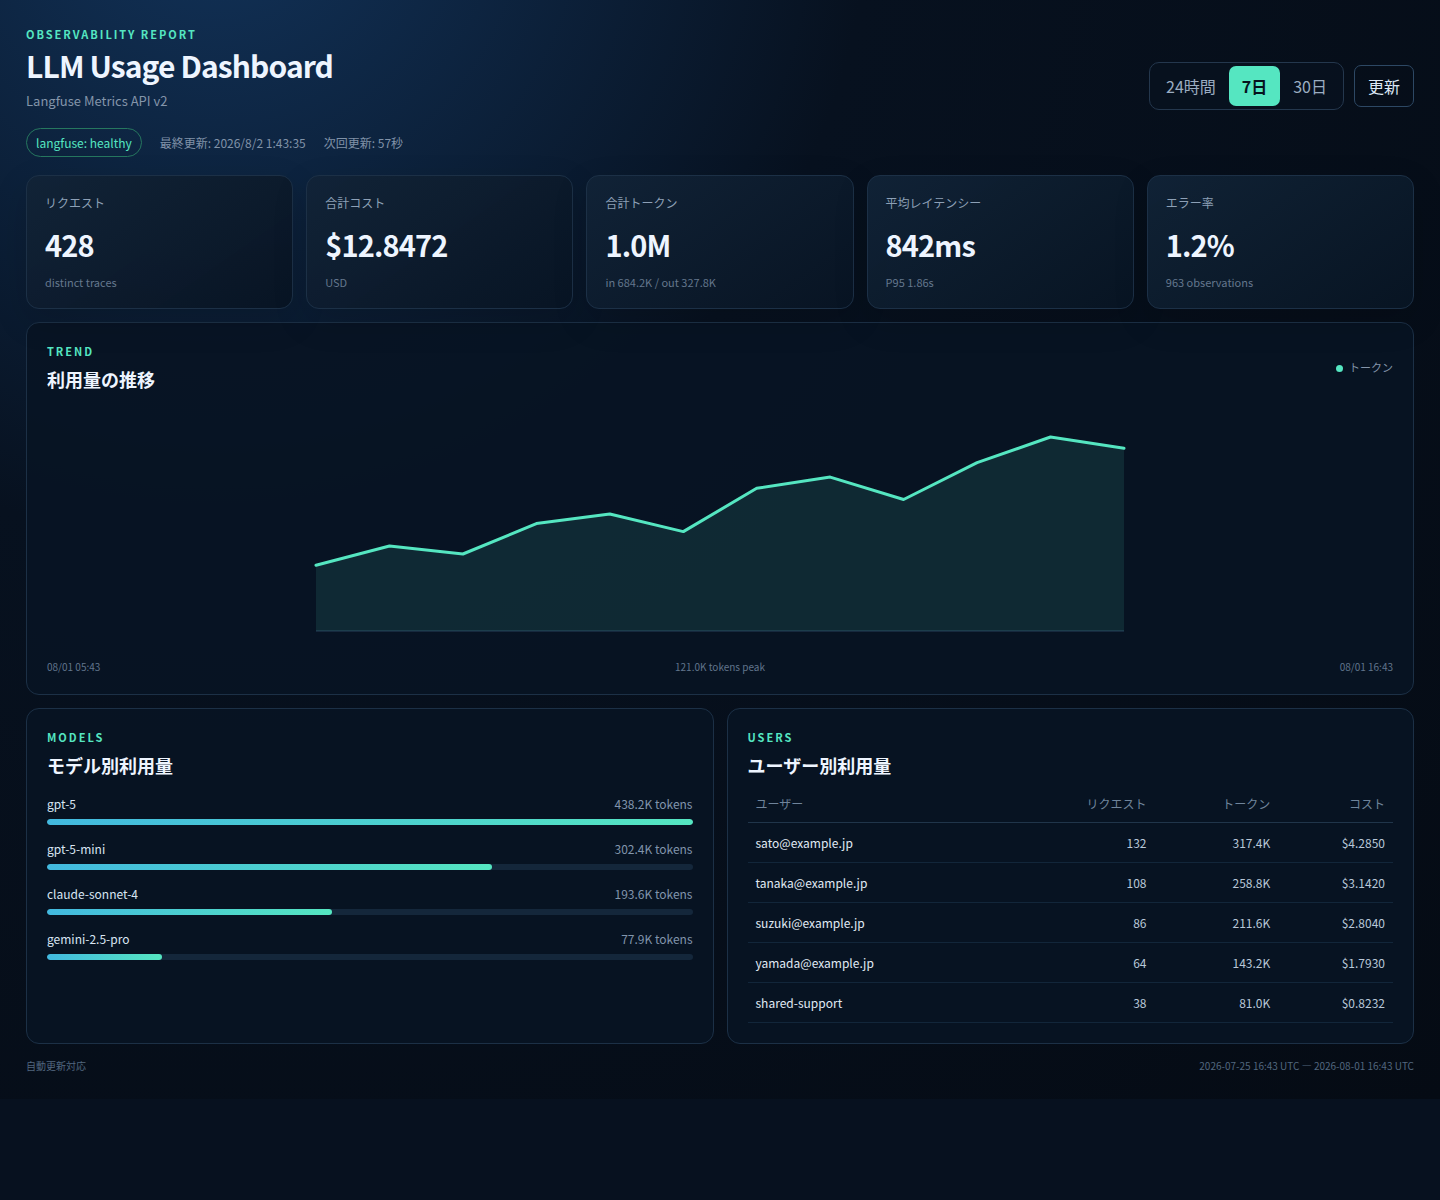
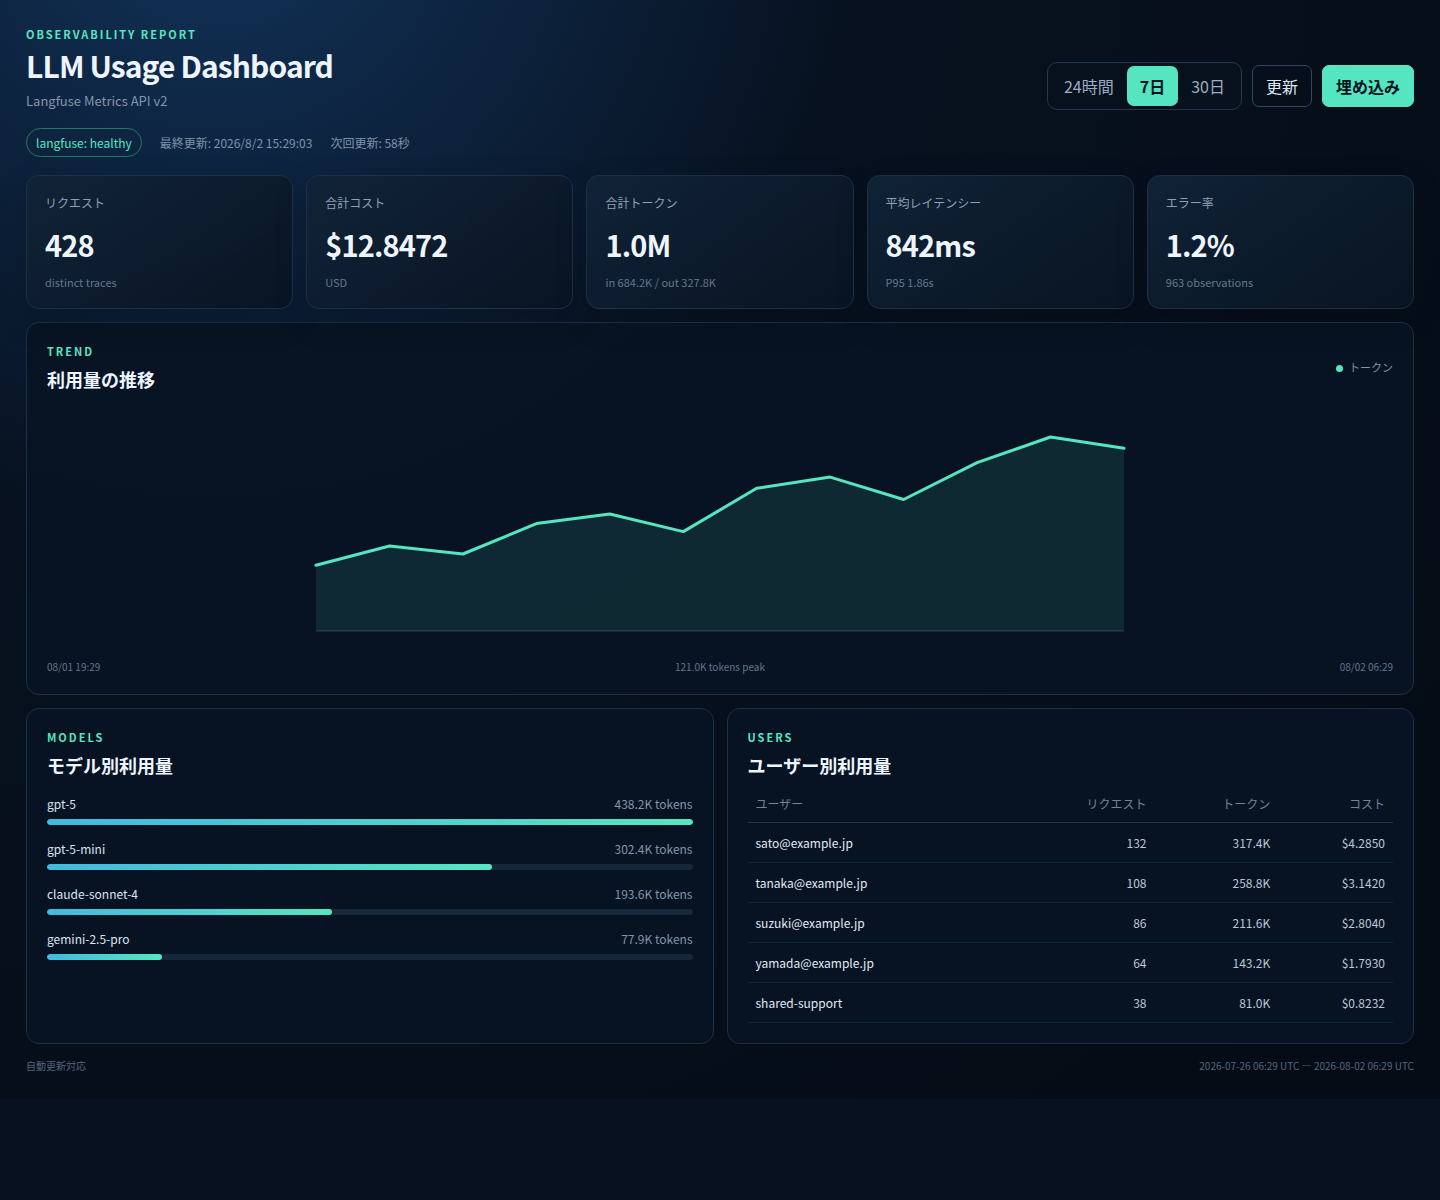
Add iframe embed code generator

Changed region(s): [[0.7188, 0.0308, 1.0, 0.0925], [0.1875, 0.0925, 0.2812, 0.1233]]

diff --git a/static/styles.css b/static/styles.css
@@ -6,7 +6,7 @@
 }
 * { box-sizing: border-box; }
 body { margin: 0; min-width: 320px; background: radial-gradient(circle at 15% -10%, #12335a 0, #07111f 38%, #050b14 100%); }
-button { font: inherit; }
+button, input, textarea { font: inherit; }
 .shell { max-width: 1440px; margin: 0 auto; padding: 26px; }
 .topbar { display: flex; align-items: flex-end; justify-content: space-between; gap: 24px; margin-bottom: 18px; }
 .eyebrow, .panel-kicker { color: #55e6c1; font-size: 11px; font-weight: 700; letter-spacing: .18em; margin: 0 0 7px; }
@@ -15,11 +15,13 @@ h2 { font-size: 18px; margin: 0; }
 .subtitle { color: #8495aa; margin: 8px 0 0; font-size: 13px; }
 .toolbar { display: flex; gap: 10px; align-items: center; }
 .range-buttons { display: flex; border: 1px solid #24374d; border-radius: 10px; padding: 3px; background: rgba(7,17,31,.8); }
-.range-buttons button, .refresh-button { border: 0; color: #9badc2; background: transparent; padding: 8px 13px; cursor: pointer; border-radius: 7px; }
+.range-buttons button, .refresh-button, .embed-button { border: 0; color: #9badc2; background: transparent; padding: 8px 13px; cursor: pointer; border-radius: 7px; }
 .range-buttons button.active { color: #06131e; background: #55e6c1; font-weight: 700; }
 .refresh-button { border: 1px solid #2d4864; color: #dce8f6; }
 .refresh-button:hover { border-color: #55e6c1; }
 .refresh-button:disabled { opacity: .45; cursor: wait; }
+.embed-button, .primary-button { color: #06131e; background: #55e6c1; border: 1px solid #55e6c1; font-weight: 700; }
+.embed-button:hover, .primary-button:hover { background: #7aefd1; }
 .status-row { color: #8092a8; display: flex; gap: 18px; align-items: center; font-size: 12px; margin-bottom: 18px; }
 .status-pill { border: 1px solid #36506a; padding: 5px 9px; border-radius: 999px; }
 .status-healthy { border-color: #26775f; color: #55e6c1; }
@@ -57,13 +59,38 @@ td { color: #b8c7d8; text-align: right; padding: 11px 8px; border-bottom: 1px so
 .user-id { max-width: 260px; overflow: hidden; text-overflow: ellipsis; white-space: nowrap; color: #e0eaf5; }
 .empty { color: #73879e; text-align: center; padding: 35px 10px; }
 footer { display: flex; justify-content: space-between; gap: 20px; color: #52677f; font-size: 10px; margin-top: 14px; }
+.modal-open { overflow: hidden; }
+.modal { position: fixed; z-index: 1000; inset: 0; display: flex; align-items: center; justify-content: center; padding: 20px; }
+.modal.hidden { display: none; }
+.modal-backdrop { position: absolute; inset: 0; background: rgba(1,8,16,.78); }
+.modal-card { position: relative; width: 100%; max-width: 690px; padding: 24px; border: 1px solid #29445f; border-radius: 15px; background: #091829; box-shadow: 0 24px 80px rgba(0,0,0,.55); }
+.modal-heading { display: flex; align-items: flex-start; justify-content: space-between; gap: 18px; }
+.icon-button { border: 0; border-radius: 8px; color: #9badc2; background: transparent; cursor: pointer; font-size: 28px; line-height: 1; padding: 2px 7px; }
+.icon-button:hover { color: #fff; background: #14283d; }
+.modal-description { margin: 14px 0; color: #9badc2; font-size: 13px; }
+.publish-note { margin: 0 0 19px; padding: 11px 13px; border: 1px solid #4a4225; border-radius: 9px; background: #28230f; color: #d7c780; font-size: 12px; line-height: 1.55; }
+.field-label { display: block; margin: 16px 0 7px; color: #c5d2e1; font-size: 12px; font-weight: 600; }
+.copy-row { display: flex; gap: 8px; }
+.code-field { width: 100%; border: 1px solid #294159; border-radius: 8px; padding: 10px 12px; background: #06111f; color: #cfe0f2; font-family: Consolas, "Courier New", monospace; font-size: 12px; outline: none; }
+.code-field:focus { border-color: #55e6c1; }
+.code-area { display: block; resize: vertical; line-height: 1.5; }
+.secondary-button, .primary-button { display: inline-block; border-radius: 8px; padding: 9px 13px; cursor: pointer; white-space: nowrap; text-decoration: none; font-size: 12px; }
+.secondary-button { border: 1px solid #31506d; color: #d9e6f4; background: #0c1d30; }
+.secondary-button:hover { border-color: #55e6c1; }
+.modal-actions { display: flex; justify-content: flex-end; gap: 9px; margin-top: 18px; }
+.link-button { text-align: center; }
+.copy-status { min-height: 17px; margin: 10px 0 0; color: #55e6c1; text-align: right; font-size: 11px; }
 @media (max-width: 820px) {
   .shell { padding: 16px; }
   .topbar { display: block; }
   .toolbar { margin-top: 18px; justify-content: space-between; }
+  .toolbar { flex-wrap: wrap; }
   .two-column { display: block; }
   .two-column > .panel { width: 100%; margin-bottom: 13px; }
   .status-row { flex-wrap: wrap; gap: 8px 14px; }
   footer { display: block; }
   footer span { display: block; margin-top: 5px; }
+  .modal-card { padding: 18px; }
+  .copy-row { align-items: stretch; }
+  .modal-actions { flex-direction: column; }
 }

diff --git a/static/app.js b/static/app.js
@@ -54,6 +54,56 @@
     banner.className = message ? 'error-banner' : 'error-banner hidden';
     banner.textContent = message || '';
   }
+  function currentDashboardUrl() {
+    return window.location.href.split('#')[0].split('?')[0];
+  }
+  function iframeMarkup(url) {
+    return '<iframe\n  src="' + url + '"\n  title="LLM Usage Dashboard"\n  width="100%"\n  height="800"\n  frameborder="0">\n</iframe>';
+  }
+  function copyValue(node, label) {
+    function complete(ok) {
+      byId('copy-status').textContent = ok ? label + 'をコピーしました' : 'コピーできませんでした。選択して手動でコピーしてください。';
+    }
+    if (window.navigator.clipboard && window.navigator.clipboard.writeText) {
+      window.navigator.clipboard.writeText(node.value).then(function () { complete(true); }, function () { fallbackCopy(); });
+      return;
+    }
+    fallbackCopy();
+    function fallbackCopy() {
+      node.focus(); node.select();
+      try { complete(document.execCommand('copy')); } catch (error) { complete(false); }
+    }
+  }
+  function openEmbedModal() {
+    var url = currentDashboardUrl();
+    byId('public-url').value = url;
+    byId('iframe-code').value = iframeMarkup(url);
+    byId('preview-link').href = url;
+    byId('copy-status').textContent = '';
+    byId('embed-modal').className = 'modal';
+    byId('embed-modal').setAttribute('aria-hidden', 'false');
+    document.body.className = 'modal-open';
+    byId('embed-close').focus();
+  }
+  function closeEmbedModal() {
+    byId('embed-modal').className = 'modal hidden';
+    byId('embed-modal').setAttribute('aria-hidden', 'true');
+    document.body.className = '';
+    byId('embed-button').focus();
+  }
+  function initEmbedDialog() {
+    byId('embed-button').onclick = openEmbedModal;
+    byId('embed-close').onclick = closeEmbedModal;
+    byId('copy-url').onclick = function () { copyValue(byId('public-url'), '公開URL'); };
+    byId('copy-iframe').onclick = function () { copyValue(byId('iframe-code'), 'iframeコード'); };
+    byId('embed-modal').onclick = function (event) {
+      if (event.target.getAttribute && event.target.getAttribute('data-close-modal') === 'true') { closeEmbedModal(); }
+    };
+    document.onkeydown = function (event) {
+      event = event || window.event;
+      if ((event.key === 'Escape' || event.keyCode === 27) && byId('embed-modal').className.indexOf('hidden') === -1) { closeEmbedModal(); }
+    };
+  }
   function renderRanges() {
     var holder = byId('range-buttons');
     clear(holder);
@@ -183,6 +233,7 @@
       state.config = config; state.range = config.default_range; state.countdown = config.refresh_seconds;
       document.title = config.title; byId('dashboard-title').textContent = config.title;
       renderRanges(); byId('refresh-button').onclick = loadDashboard;
+      initEmbedDialog();
       loadDashboard(); state.timer = window.setInterval(tick, 1000);
     });
   }

diff --git a/static/index.html b/static/index.html
@@ -18,6 +18,7 @@
       <div class="toolbar">
         <div id="range-buttons" class="range-buttons" aria-label="集計期間"></div>
         <button id="refresh-button" type="button" class="refresh-button">更新</button>
+        <button id="embed-button" type="button" class="embed-button">埋め込み</button>
       </div>
     </header>
 
@@ -68,6 +69,36 @@
       <span id="data-window"></span>
     </footer>
   </main>
+
+  <div id="embed-modal" class="modal hidden" role="dialog" aria-modal="true" aria-labelledby="embed-title" aria-hidden="true">
+    <div class="modal-backdrop" data-close-modal="true"></div>
+    <section class="modal-card">
+      <div class="modal-heading">
+        <div>
+          <p class="panel-kicker">PUBLISH</p>
+          <h2 id="embed-title">サイトに埋め込む</h2>
+        </div>
+        <button id="embed-close" class="icon-button" type="button" aria-label="閉じる">&times;</button>
+      </div>
+      <p class="modal-description">公開URLを共有するか、iframeコードをSharePointのページへ貼り付けます。</p>
+      <div class="publish-note"><strong>注意:</strong> localhostはこのPCからだけ利用できます。SPSから到達できるホスト名またはIPアドレスでこの画面を開いてコードを生成してください。</div>
+
+      <label class="field-label" for="public-url">公開URL</label>
+      <div class="copy-row">
+        <input id="public-url" class="code-field" type="text" readonly>
+        <button id="copy-url" class="secondary-button" type="button">コピー</button>
+      </div>
+
+      <label class="field-label" for="iframe-code">iframe埋め込みコード</label>
+      <textarea id="iframe-code" class="code-field code-area" rows="6" readonly></textarea>
+
+      <div class="modal-actions">
+        <a id="preview-link" class="secondary-button link-button" href="/" target="_blank" rel="noopener">プレビューを開く</a>
+        <button id="copy-iframe" class="primary-button" type="button">コードをコピー</button>
+      </div>
+      <p id="copy-status" class="copy-status" aria-live="polite"></p>
+    </section>
+  </div>
   <script src="/static/app.js"></script>
 </body>
 </html>
